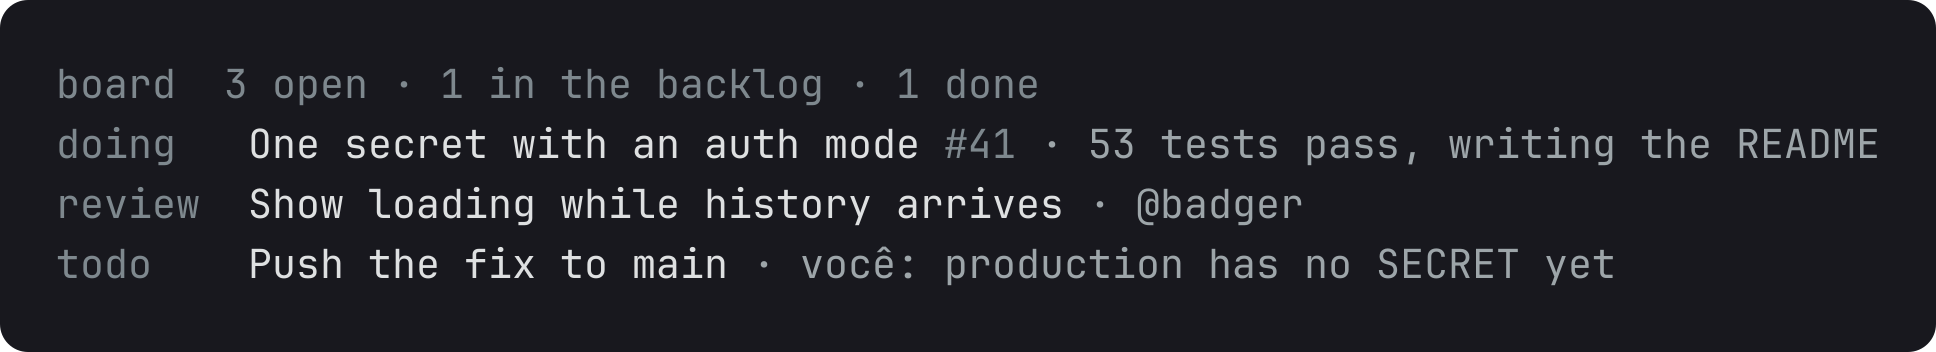
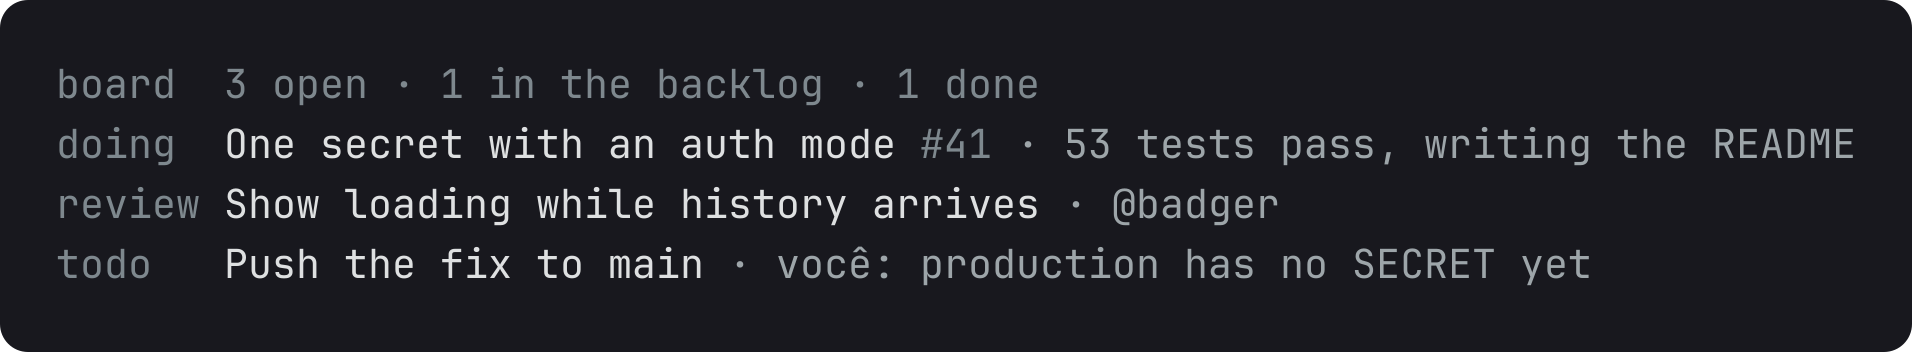
fix(kit): only the columns the panel draws set the width of its field

diff --git a/packages/kit/test/board-lines.test.ts b/packages/kit/test/board-lines.test.ts
@@ -6,7 +6,7 @@ import type { Theme } from "@earendil-works/pi-coding-agent";
 import { visibleWidth } from "@earendil-works/pi-tui";
 
 import { boardLines } from "../src/board/lines.ts";
-import type { BoardCard, BoardView } from "../src/board/model.ts";
+import { BOARD_COLUMNS, type BoardCard, type BoardView } from "../src/board/model.ts";
 
 const plain = {
 	fg: (_color: string, text: string) => text,
@@ -41,6 +41,12 @@ describe("the board in the panel", () => {
 		};
 		expect(at("todo")).toBe(at("doing"));
 		expect(at("review")).toBe(at("doing"));
+		// The width is the widest column the panel draws, plus the space after it. A column it never
+		// draws must not widen the field, which is what this number would catch.
+		const widest = Math.max(
+			...BOARD_COLUMNS.filter((one) => one.open).map((one) => one.column.length),
+		);
+		expect(at("todo")).toBe(widest + 1);
 	});
 
 	test("the blocker is the kit's sentence for this reader", () => {

diff --git a/packages/kit/src/board/lines.ts b/packages/kit/src/board/lines.ts
@@ -7,8 +7,11 @@ import { truncateToWidth } from "@earendil-works/pi-tui";
 import { CUT } from "../ui/glyphs.ts";
 import { BOARD_COLUMNS, blockedText, type BoardCard, type BoardView } from "./model.ts";
 
-/** The widest column word is the width of the field, so a title starts in the same place on every line. */
-const WIDTH = Math.max(...BOARD_COLUMNS.map((one) => one.column.length));
+/**
+ * The widest column word the panel draws is the width of the field, so a title starts in the same place
+ * on every line. Only the open columns count: a column the panel never draws must not widen it.
+ */
+const WIDTH = Math.max(...BOARD_COLUMNS.filter((one) => one.open).map((one) => one.column.length));
 
 /** What the panel shows of the board: the open cards, the backlog's count and the last done. */
 export function boardLines(
